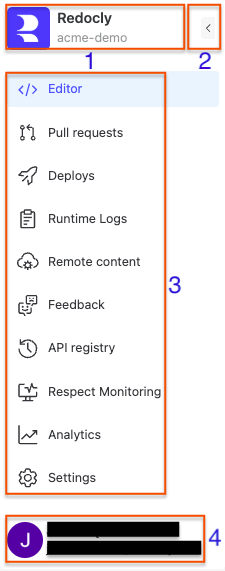
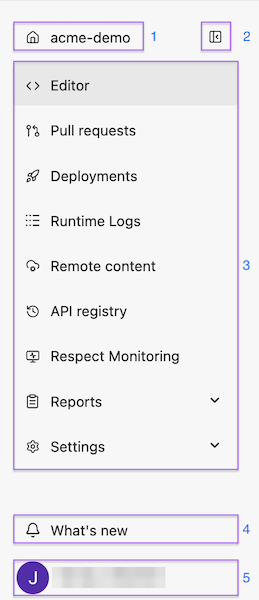
docs(realm): add information about product announcements (#22118)
remoteId: rem_01jwbtfqhbbam07z9j9m0etng6
remoteUpdateId: grupd_01kn7k7b22mymbtqdxe4twey21
branchName: main
commitSha: 0b69322584466098c9916dd5779907fca592eac5
commitUrl: https://github.com/Redocly/redocly/commit/0b69322584466098c9916dd5779907fca592eac5

diff --git a/docs/realm/reunite/organization/sso/configure-scim.md b/docs/realm/reunite/organization/sso/configure-scim.md
@@ -1,0 +1,108 @@
+---
+products:
+  - Redoc
+  - Revel
+  - Reef
+  - Realm
+plans:
+  - Enterprise+
+---
+# Configure SCIM
+
+{% configOptionRequirements products=$frontmatter.products plans=$frontmatter.plans /%}
+
+System for Cross-domain Identity Management (SCIM) 2.0 lets your identity provider provision and deprovision users in your Redocly organization automatically.
+SCIM works alongside [single sign-on (SSO)](./sso.md).
+Users still sign in through your IdP.
+SCIM keeps organization membership in sync with your directory.
+
+Each SCIM integration is tied to a specific [identity provider you added in Reunite](./add-idp.md) (Corporate or Guest, SAML 2 or OpenID Connect).
+The SCIM base URL is unique to that identity provider.
+
+{% admonition type="warning" name="Beta feature" %}
+The SCIM feature is currently experimental and may be subject to changes.
+It is only available to organizations that request access from Redocly and have the feature enabled for their organization.
+Until then, **Enable SCIM** and **SCIM endpoint** on the identity provider form are hidden.
+{% /admonition %}
+
+## Before you begin
+
+Make sure you have the following:
+
+- a SAML 2 or OpenID Connect identity provider [added in Reunite](./add-idp.md) for the organization you want to provision users into
+- `owner` role in your organization
+- an [organization API key](../api-keys.md) you can use for SCIM authentication.
+  Store it securely and use the key value as the bearer token.
+  If you later rotate or revoke that key, update the bearer token in your identity provider’s SCIM provisioning application so provisioning keeps working
+- confirmation from Redocly that SCIM has been enabled for your organization
+
+## Enable SCIM in Reunite
+
+1. Log in to Redocly and access your organization's **Overview** page.
+1. Select **SSO and login** in the navigation menu on the left side of the page.
+1. Under **Identity Provider**, open the Corporate or Guest provider you want to connect to SCIM (for example, click **Edit**).
+   If you use SAML 2 or OpenID Connect, you are taken to the corresponding identity provider form.
+1. Select **Enable SCIM 2.0**.
+1. Copy the **SCIM endpoint** value shown on the form.
+   Enter this URL in your identity provider’s SCIM or provisioning settings.
+
+## Authenticate SCIM requests
+
+Your identity provider must send an `Authorization` header that carries your organization API key.
+Use the `Bearer` format followed by a space and the full API key string (the same value you copy when you create a key in **API keys**).
+
+Create or rotate keys under **API keys** in your organization settings.
+From more information about API keys in your Redocly products, see [Manage API keys](../api-keys.md).
+
+If you rotate or revoke the organization API key used for SCIM, put the new key value into your identity provider’s SCIM provisioning settings (the same place you configured the bearer token).
+The IdP's SCIM requests fail and automatic provisioning stops until you provide a valid key.
+
+## Supported SCIM attributes
+
+Redocly follows SCIM 2.0 Core User and Group resources.
+Map your identity provider’s attributes to the SCIM fields so the provisioning matches data in Redocly.
+
+### Users
+
+Redocly reads these SCIM User attributes:
+
+- **userName** or **emails** (email address in Redocly): If **userName** is a valid email, it is used.
+  Otherwise Redocly uses the **emails** list.
+  Prefer the entry marked **primary**, or the first email in the list.
+- **externalId** (IdP user id): Required for create and update. Links the directory user to SSO for this identity provider.
+- **name.givenName** and **name.familyName** (first and last name): Optional.
+- **active** (organization membership): **true** provisions the user into your Redocly organization. **false** removes them from the organization (deprovisioning).
+
+Other SCIM User attributes (for example **displayName**, **title**, **locale**, **timezone**, **profileUrl**, **name.middleName**) are not saved to the Redocly user profile.
+Your IdP may still send them.
+
+### Groups
+
+Redocly maps SCIM Groups to [organization teams](../teams.md):
+
+- **displayName** (team name): Becomes the team name in Redocly.
+- **members** (team membership): Your IdP can add or remove members with SCIM Group updates when it supports those operations.
+
+The exact behavior depends on which SCIM operations your IdP sends.
+If you have synchronization issues your environment, review the attribute mapping in your IdP.
+
+## Configure your identity provider
+
+In your identity provider’s admin console, create or edit a SCIM provisioning application (sometimes called automated provisioning or directory sync).
+Use the **SCIM endpoint** from Reunite as the provisioning base URL, and configure bearer token authentication with your organization API key.
+
+Exact field names and steps depend on your IdP.
+After you save your Reunite settings and your IdP configuration, run your provider’s test or sync flow if available to confirm connectivity.
+
+{% admonition type="warning" name="User account removal" %}
+Deprovisioning removes the user from your Redocly organization when your IdP sets **active** to **false** or unassigns them from the provisioned application, depending on how your IdP implements SCIM.
+{% /admonition %}
+
+## Resources
+
+- **[Add an identity provider](./add-idp.md)** - Add or edit SAML 2 and OpenID Connect identity providers in Reunite
+- **[Manage API keys](../api-keys.md)** - Create and revoke organization API keys used for SCIM authentication
+- **[Configure SSO](./configure-sso.md)** - Choose which identity providers apply to each project in `redocly.yaml`
+- **[Single sign-on (SSO) concepts](./sso.md)** - Learn how Corporate and Guest identity providers work with Reunite and projects
+- **[SSO configuration reference](../../../config/access/sso.md)** - Technical reference for SSO options in your project configuration
+

diff --git a/docs/realm/reunite/project/project-ui.md b/docs/realm/reunite/project/project-ui.md
@@ -13,7 +13,7 @@ plans:
 
 {% configOptionRequirements products=$frontmatter.products plans=$frontmatter.plans /%}
 
-Use this document as a reference for the user interface (UI) of pages in Reunite's project workspace.
+Reference the user interface (UI) of pages in Reunite's project workspace.
 Learn about the various ways you can utilize the interface controls.
 
 ## General interface
@@ -40,7 +40,8 @@ Use the navigation pane to:
 - (1) access the [organizations and projects menu](#organization-and-projects-menu)
 - (2) collapse the navigation pane
 - (3) switch between [Reunite workspace pages](../reunite.md)
-- (4) [access the user profile menu](../user-profile-menu.md)
+- (4) view the latest product announcements
+- (5) [access the user profile menu](../user-profile-menu.md)
 
 #### Organization and projects menu
 

diff --git a/docs/realm/reunite/organization/sso/sso.md b/docs/realm/reunite/organization/sso/sso.md
@@ -70,3 +70,4 @@ Disabling SSO removes the login page, but does not disable `rbac`.
 - **[Okta SAML integration video](https://youtu.be/NMayl8FTZ7c)** - Watch a step-by-step tutorial for integrating Okta with Redocly using SAML for single sign-on
 - **[SSO configuration reference](../../../config/access/sso.md)** - Complete technical reference for all SSO configuration options and settings in your redocly.yaml file
 - **[Multi-tenant SSO: Federated identity management](./sso-multi-tenant.md)** - Implement federated identity management for organizations with multiple tenants and complex authentication requirements
+- **[Configure SCIM](./configure-scim.md)** - Enable SCIM 2.0 directory provisioning for an identity provider (beta, access by request)

diff --git a/docs/realm/reunite/organization/sso/add-idp.md b/docs/realm/reunite/organization/sso/add-idp.md
@@ -90,6 +90,7 @@ See [Configure RBAC](../../../access/index.md) or [requiresLogin](../../../confi
 
 ## Resources
 
+- **[Configure SCIM](./configure-scim.md)** - Enable SCIM 2.0 provisioning and deprovisioning for an identity provider (beta, access by request)
 - **[Configure SSO](./configure-sso.md)** - Specify which identity providers users can access or disable SSO entirely for your project authentication settings
 - **[Configure RBAC](../../../access/index.md)** - Limit user access to specific pages and features in your project and Reunite using role-based access control
 - **[SSO configuration reference](../../../config/access/sso.md)** - Complete technical reference for all available SSO configuration options and implementation details

diff --git a/docs/realm/reunite/organization/sso/configure-sso.md b/docs/realm/reunite/organization/sso/configure-sso.md
@@ -72,3 +72,4 @@ Disabling SSO removes the login page, but does not disable `rbac`.
 - **[Single sign-on (SSO) concepts](./sso.md)** - Understand different identity provider types and implementation approaches for your project authentication needs
 - **[Role-based access control (RBAC) concepts](../../../access/rbac.md)** - Understand how RBAC works in projects and Reunite for comprehensive access management
 - **[RBAC configuration reference](../../../config/access/rbac.md)** - Complete reference for configuring RBAC options in your redocly.yaml file with examples and implementation details
+- **[Configure SCIM](./configure-scim.md)** - Enable SCIM 2.0 user provisioning for your SSO identity provider (beta, access by request)
